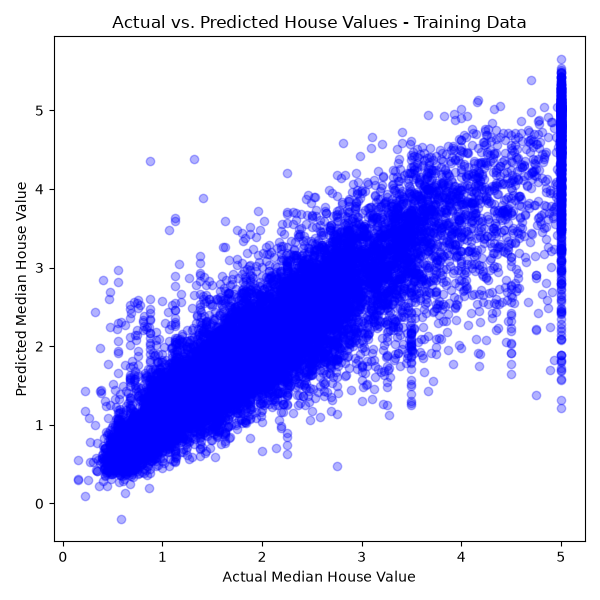
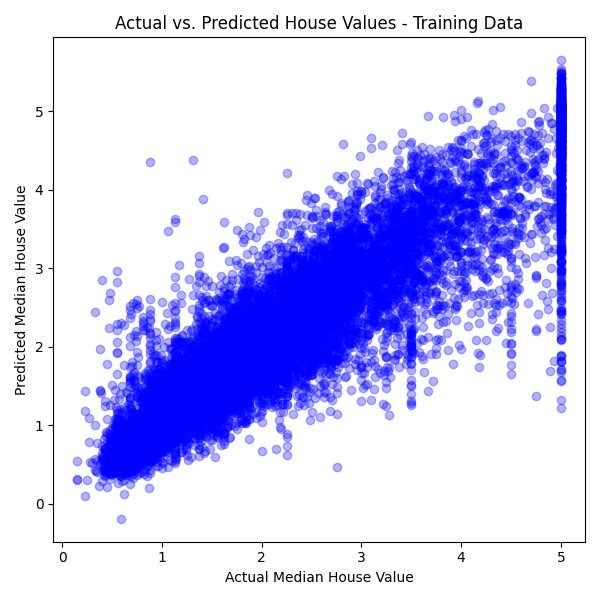
Add test predictions and actual vs predicted plot
- Generated predictions using the testing dataset
- Created an actual versus predicted scatter plot for test data
- Added descriptive axis labels and a title
- Saved the testing plot in the figures folder

diff --git a/src/ds_pipeline.py b/src/ds_pipeline.py
@@ -1,55 +1,55 @@
 # Step 1: Read the data
-
+ 
 from sklearn.datasets import fetch_california_housing
 from sklearn.model_selection import train_test_split
 from sklearn.preprocessing import StandardScaler
 from sklearn.neural_network import MLPRegressor
 from sklearn.pipeline import Pipeline
-
+ 
 import pandas as pd
 import matplotlib.pyplot as plt
-
-
+ 
+ 
 # Load California Housing dataset
-
+ 
 housing = fetch_california_housing(as_frame=True)
-
-
+ 
+ 
 # Features + target as a single DataFrame
-
+ 
 df = housing.frame
-
-
+ 
+ 
 # Quick check
-
+ 
 print(df.head())
 print(df.shape)
-
-
+ 
+ 
 # Separate the features and target
-
+ 
 X = df.drop(columns=["MedHouseVal"])
 y = df["MedHouseVal"]
-
-
+ 
+ 
 # Split into 80% training data and 20% testing data
-
+ 
 X_train, X_test, y_train, y_test = train_test_split(
     X,
     y,
     test_size=0.20,
     random_state=42
 )
-
-
+ 
+ 
 # Check the training and testing shapes
-
+ 
 print("Training set shape:", X_train.shape)
 print("Testing set shape:", X_test.shape)
-
-
+ 
+ 
 # Create the model pipeline
-
+ 
 model = Pipeline([
     ("scaler", StandardScaler()),
     ("mlp", MLPRegressor(
@@ -60,53 +60,80 @@ model = Pipeline([
         random_state=42
     ))
 ])
-
-
+ 
+ 
 # Train the model
-
+ 
 model.fit(X_train, y_train)
-
+ 
 print("Model training completed.")
 print("Training iterations:", model.named_steps["mlp"].n_iter_)
-
-
+ 
+ 
 # Generate predictions for the training data
-
+ 
 train_predictions = model.predict(X_train)
-
-
+ 
+ 
 # Create the actual vs predicted training plot
-
+ 
 plt.figure(figsize=(6, 6))
-
+ 
 plt.scatter(
     y_train,
     train_predictions,
     alpha=0.3,
     color="blue"
 )
-
+ 
 plt.xlabel("Actual Median House Value")
 plt.ylabel("Predicted Median House Value")
 plt.title("Actual vs. Predicted House Values - Training Data")
-
+ 
 plt.tight_layout()
 plt.savefig("figures/train_actual_vs_pred.png")
 plt.close()
-
+ 
 print("Training prediction plot saved.")
-
-
+ 
+ 
+# Generate predictions for the testing data
+ 
+test_predictions = model.predict(X_test)
+ 
+ 
+# Create the actual vs predicted testing plot
+ 
+plt.figure(figsize=(6, 6))
+ 
+plt.scatter(
+    y_test,
+    test_predictions,
+    alpha=0.3,
+    color="green"
+)
+ 
+plt.xlabel("Actual Median House Value")
+plt.ylabel("Predicted Median House Value")
+plt.title("Actual vs. Predicted House Values - Testing Data")
+ 
+plt.tight_layout()
+plt.savefig("figures/test_actual_vs_pred.png")
+plt.close()
+ 
+print("Testing prediction plot saved.")
+ 
+ 
 # Save the boxplot
-
+ 
 plt.figure(figsize=(6, 4))
 df["MedHouseVal"].plot.box()
-
+ 
 plt.title("Boxplot of Median House Value")
 plt.ylabel("Median House Value")
-
+ 
 plt.tight_layout()
 plt.savefig("figures/med_house_value_boxplot.png")
 plt.close()
-
+ 
 print("Boxplot saved.")
